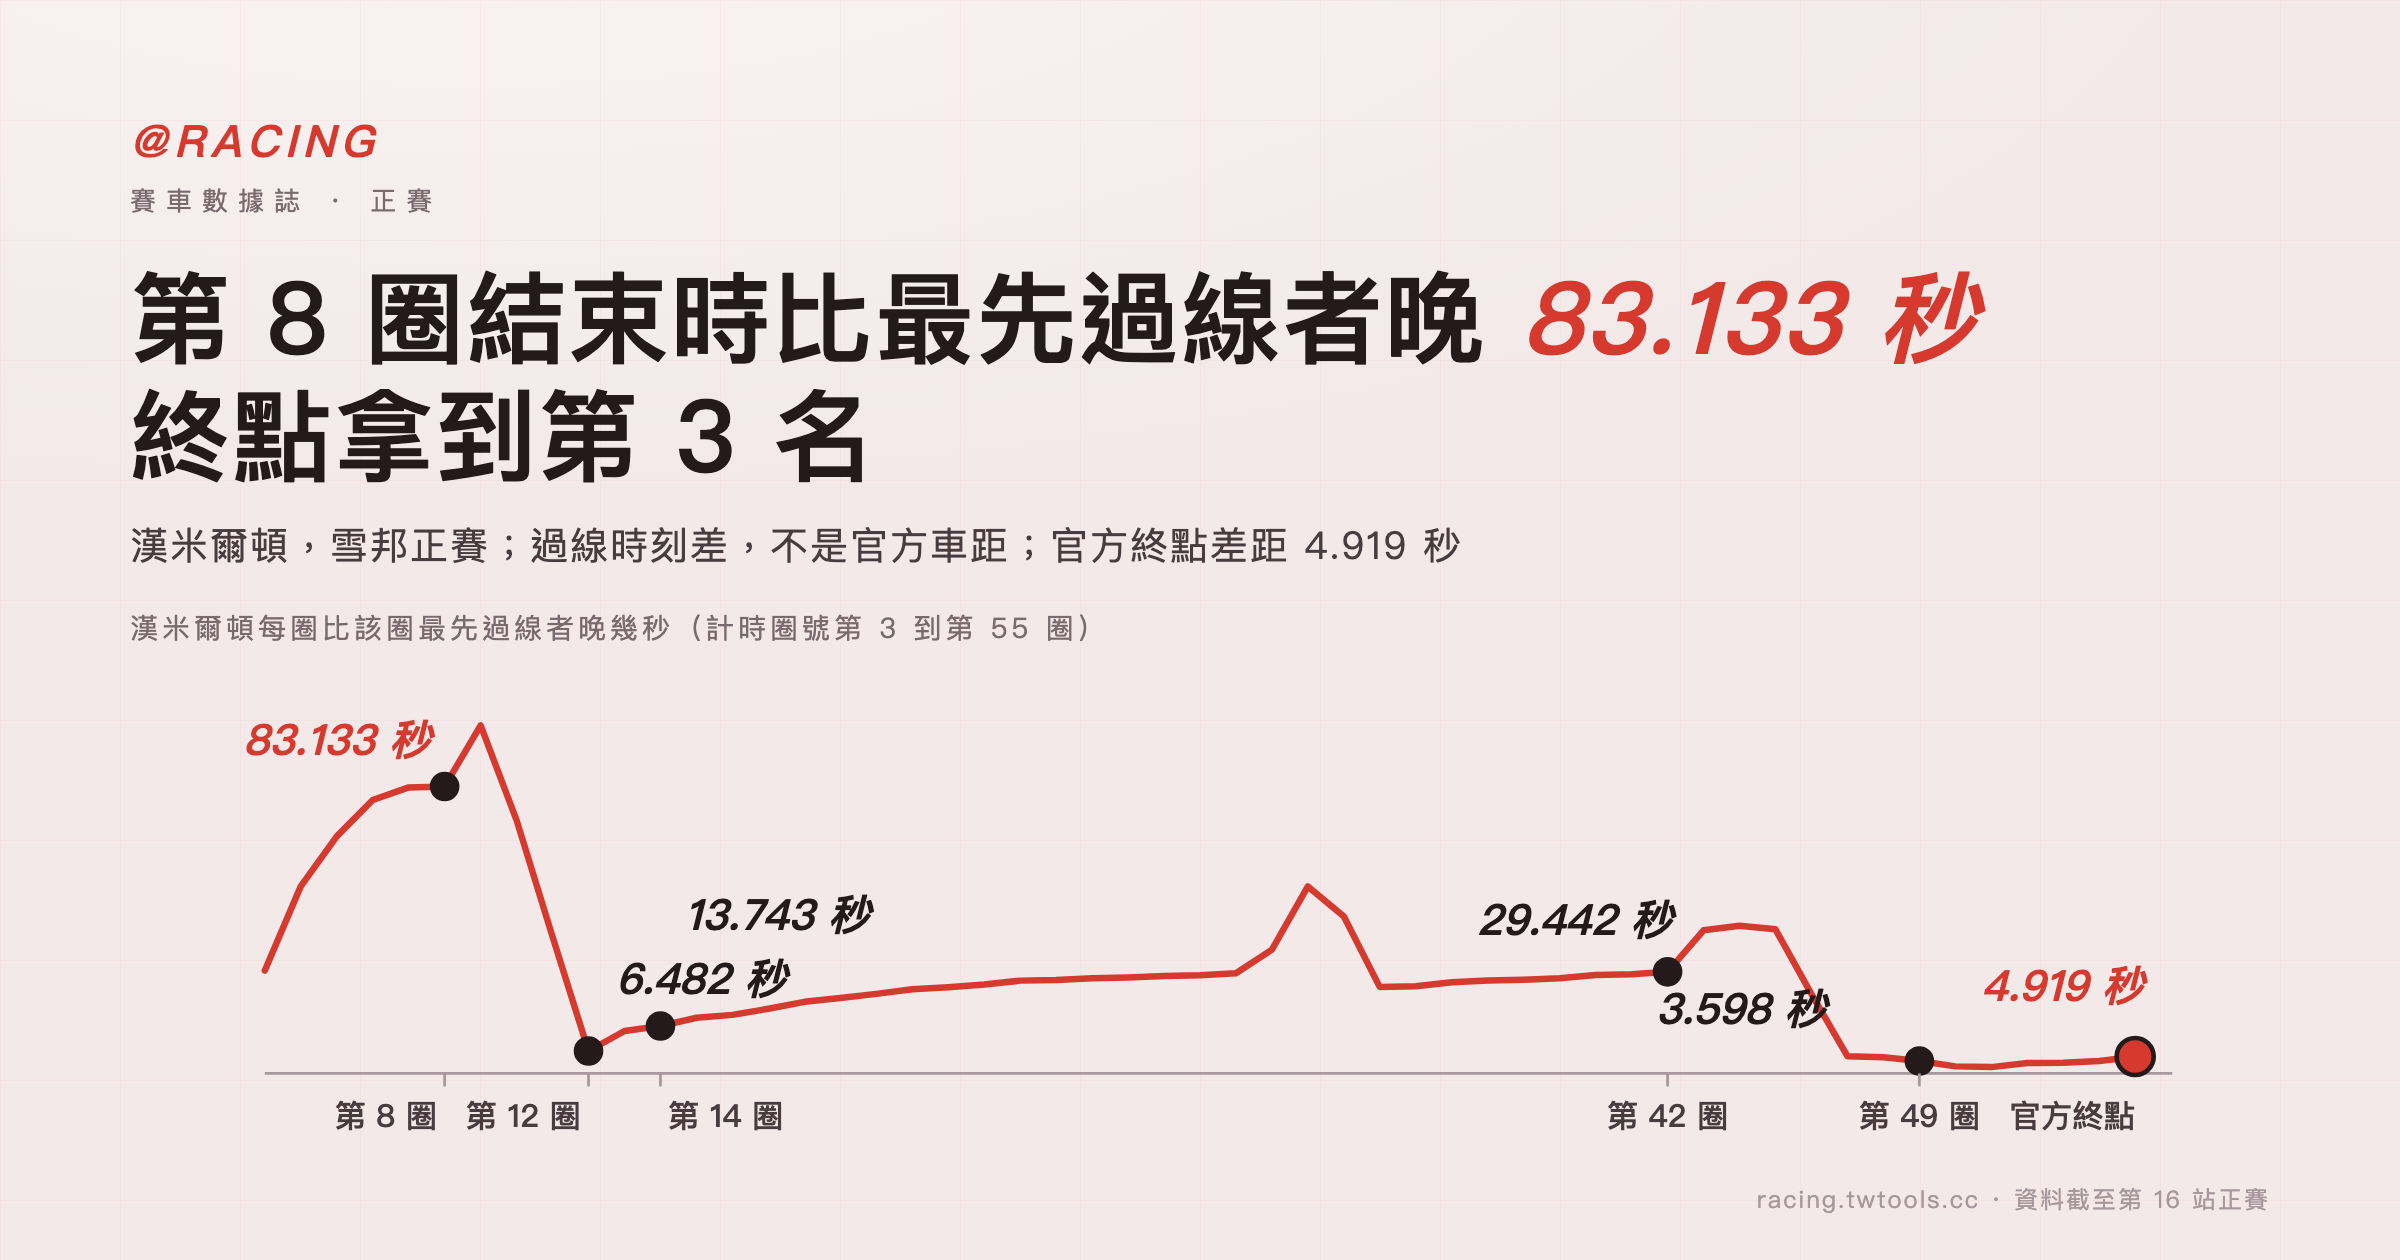
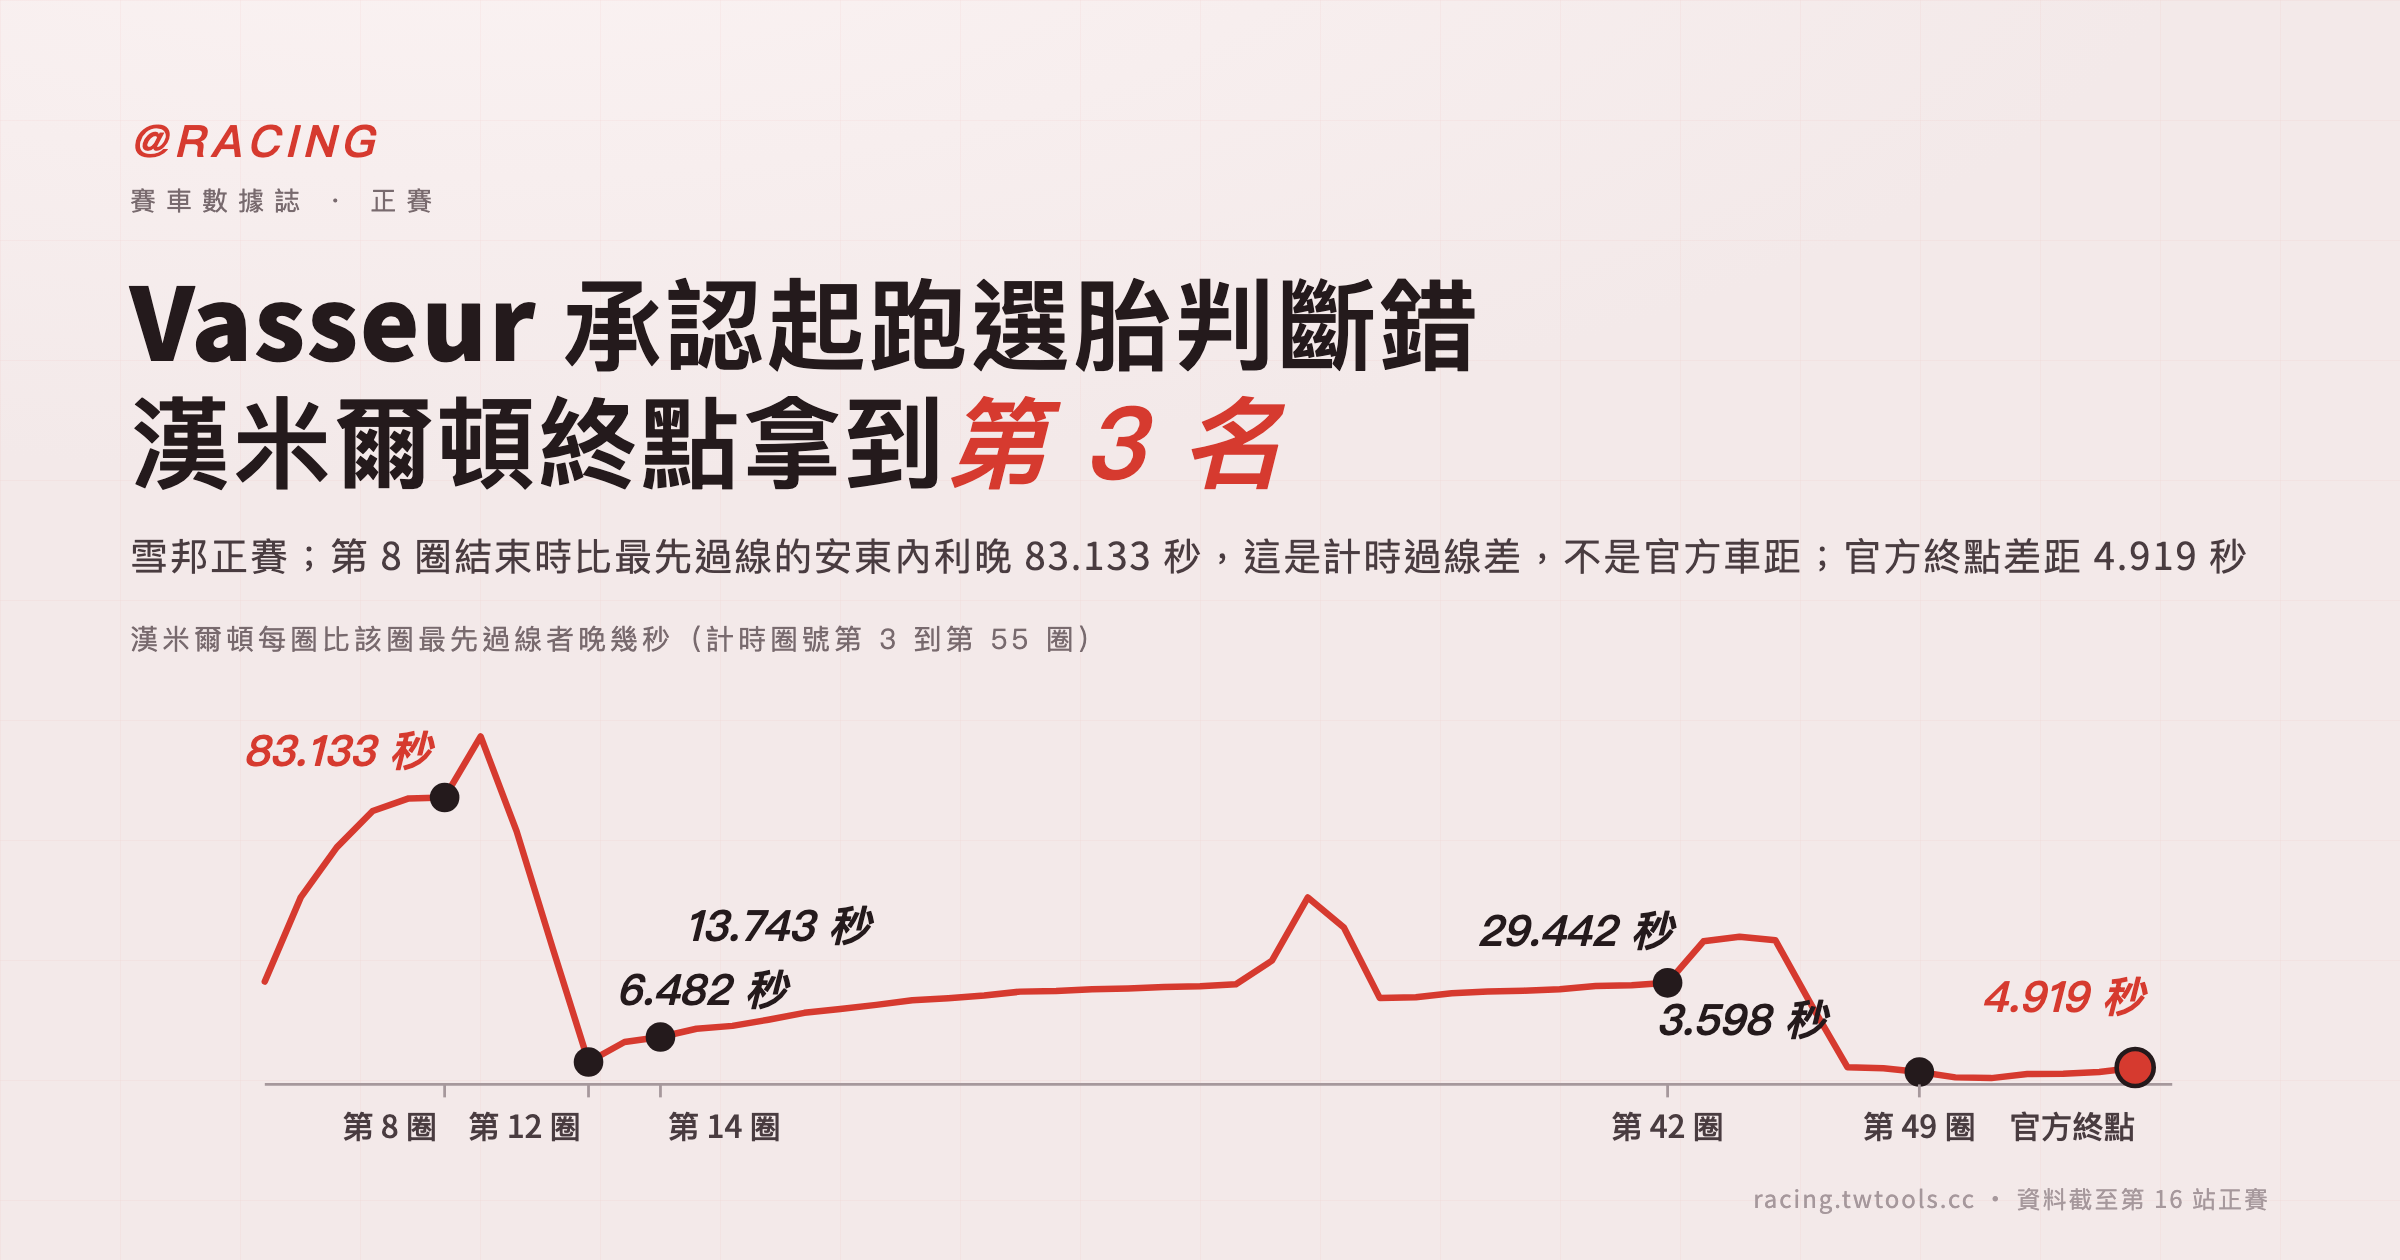
雪邦正賽分析封面改版：大標對應新標題 (#109)
Charlie 回「合 racing #109」授權合併、部署。只換封面圖，文章與簽核不動。

diff --git a/design/covers/cover-sepang-hamilton-podium-ledger.html b/design/covers/cover-sepang-hamilton-podium-ledger.html
@@ -20,8 +20,8 @@ h1 { font-size: 100px; margin-top: 40px; }
 <div class="wrap">
   <div class="brand">@RACING</div>
   <div class="tag">賽車數據誌 · 正賽</div>
-  <h1>第 8 圈結束時比最先過線者晚 <span class="y">83.133 秒</span><br>終點拿到第 3 名</h1>
-  <div class="sub">漢米爾頓，雪邦正賽；過線時刻差，不是官方車距；官方終點差距 4.919 秒</div>
+  <h1>Vasseur 承認起跑選胎判斷錯<br>漢米爾頓終點拿到<span class="y">第 3 名</span></h1>
+  <div class="sub">雪邦正賽；第 8 圈結束時比最先過線的安東內利晚 83.133 秒，這是計時過線差，不是官方車距；官方終點差距 4.919 秒</div>
   <div class="viz">
     <div class="lbl">漢米爾頓每圈比該圈最先過線者晚幾秒（計時圈號第 3 到第 55 圈）</div>
     <svg class="chart" viewBox="0 -10 2160 540" preserveAspectRatio="xMidYMid meet">
